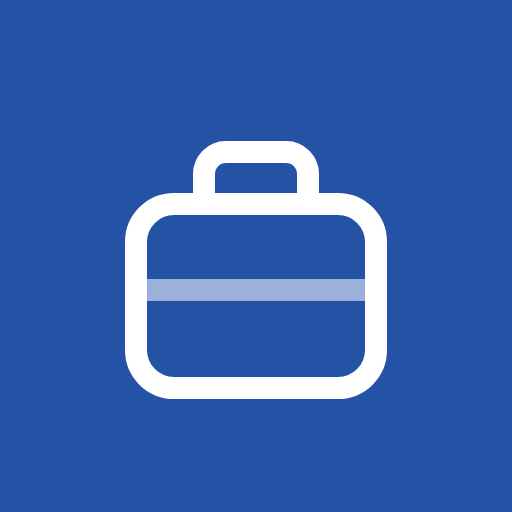
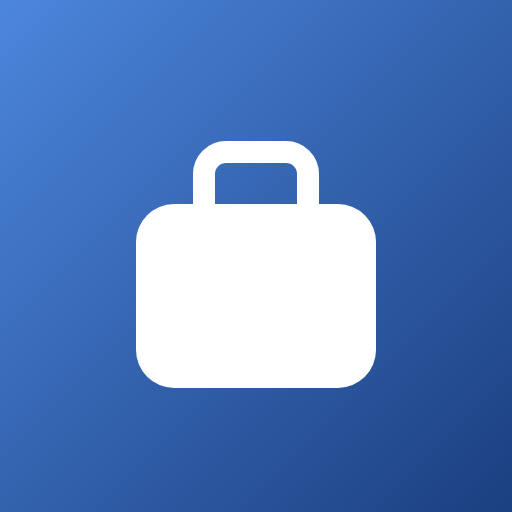
Ícone opção I sem traço; Despesas vira Financeiro
Claude-Session: https://claude.ai/code/session_01NX5S71Kf4iqq7ibVQkZmZT

diff --git a/index.html b/index.html
@@ -9,9 +9,9 @@
 <meta name="mobile-web-app-capable" content="yes">
 <meta name="apple-mobile-web-app-status-bar-style" content="default">
 <meta name="apple-mobile-web-app-title" content="Viagens a Dois">
-<link rel="apple-touch-icon" href="icon-180.png?v=6">
-<link rel="icon" type="image/png" href="icon-192.png?v=6">
-<link rel="manifest" href="manifest.webmanifest?v=6">
+<link rel="apple-touch-icon" href="icon-180.png?v=7">
+<link rel="icon" type="image/png" href="icon-192.png?v=7">
+<link rel="manifest" href="manifest.webmanifest?v=7">
 <link rel="preconnect" href="https://fonts.googleapis.com">
 <link rel="stylesheet" href="https://fonts.googleapis.com/css2?family=Manrope:wght@400;500;600;700;800&display=swap">
 <style>
@@ -533,7 +533,7 @@ function tabbar(on){
   if (!dentro) return `<nav class="tabbar" style="grid-template-columns:repeat(2,minmax(0,1fr))" aria-label="Navegação">${t('#/', 'viagens', 'mala', 'Viagens')}${nos()}</nav>`;
   return `<nav class="tabbar" aria-label="Navegação">
     ${t('#/v/'+a, 'inicio', 'casa', 'Início')}
-    ${t('#/v/'+a+'/gastos', 'gastos', 'moeda', 'Despesas')}
+    ${t('#/v/'+a+'/gastos', 'gastos', 'moeda', 'Financeiro')}
     ${t('#/v/'+a+'/lugares', 'roteiro', 'rota', 'Roteiro')}
     ${t('#/v/'+a+'/reservas', 'reservas', 'voo', 'Reservas')}
     ${t('#/', 'viagens', 'mala', 'Viagens', 'so-desk')}${nos('so-desk')}
@@ -670,14 +670,14 @@ function telaViagem(id, aba){
   const linhaI = (href, ic, t, s) => `<a class="ra" href="${href}"><span class="ra-i">${icr(ic,20,1.3)}</span><span class="ra-t"><b>${t}</b><span>${s}</span></span>${sv(IC.seta,16,1.5)}</a>`;
   const inicio = `<div class="lstA">
     ${linhaI('#/novo/'+id, 'plus', 'Registrar despesa', 'Anotar uma compra')}
-    ${linhaI('#/v/'+id+'/gastos', 'moeda', 'Despesas', r.gs.length ? brl(r.total) + ' até agora' : 'Nada registrado ainda')}
+    ${linhaI('#/v/'+id+'/gastos', 'moeda', 'Financeiro', r.gs.length ? brl(r.total) + ' até agora' : 'Nada registrado ainda')}
     ${linhaI('#/v/'+id+'/lugares', 'rota', 'Roteiro', nD ? `${nL} ${nL === 1 ? 'local' : 'locais'} · ${nD} ${nD === 1 ? 'dia' : 'dias'}` : 'Dias e lugares')}
     ${linhaI('#/v/'+id+'/reservas', 'voo', 'Reservas', nR ? `${nR} ${nR === 1 ? 'passagem' : 'passagens'}` : 'Passagens')}
     ${linhaI('#/v/'+id+'/hospedagens', 'bed', 'Hospedagens', nH ? `${nH} ${nH === 1 ? 'hospedagem' : 'hospedagens'}` : 'Hotel, Airbnb e outros')}</div>`;
   const cab = (t, s, extra) => `<nav class="nav"><a href="#/v/${id}">${sv(IC.voltar,22,2.2)} ${esc(v.nome)}</a><a href="#/limite/${id}">Editar</a></nav><h1 class="t">${t}</h1><div class="sub">${s}</div>${extra || ''}`;
   const segRot = `<div class="seg" style="grid-template-columns:1fr 1fr;margin-bottom:6px" role="group"><button data-aba="lugares" aria-pressed="${aba === 'lugares'}">Lugares</button><button data-aba="dias" aria-pressed="${aba === 'dias'}">Dias</button></div>`;
   let tela;
-  if (aba === 'gastos') tela = cab('Despesas', 'Quanto já gastaram e como dividir.') + corpoGastos;
+  if (aba === 'gastos') tela = cab('Financeiro', 'Quanto já gastaram e como dividir.') + corpoGastos;
   else if (aba === 'lugares') tela = cab('Roteiro', 'Onde vamos ficar e o que queremos conhecer.', segRot) + corpoRoteiro(v, 'dados');
   else if (aba === 'dias') tela = cab('Roteiro', 'O que vamos fazer em cada dia da viagem.', segRot) + corpoRoteiro(v, 'dias');
   else if (aba === 'reservas') tela = cab('Reservas', 'Passagens da viagem.') + corpoReservas(v);
@@ -1466,7 +1466,7 @@ function telaHosp(id){
   document.getElementById('bt-ed').onclick = () => editarHosp(it.viagem_id, it);
 }
 function abasViagem(id, aba){
-  const t = [['gastos','Despesas'],['roteiro','Roteiro'],['lugares','Lugares'],['reservas','Reservas']];
+  const t = [['gastos','Financeiro'],['roteiro','Roteiro'],['lugares','Lugares'],['reservas','Reservas']];
   return `<div class="seg" style="grid-template-columns:repeat(4,minmax(0,1fr))" role="group" aria-label="Seções da viagem">${t.map(([k,l]) => `<button data-aba="${k}" aria-pressed="${aba === k}">${l}</button>`).join('')}</div>`;
 }
 
@@ -1494,7 +1494,7 @@ function render(){
 function emFormulario(){ return /^#\/(novo|gasto\/|nova-viagem|limite)/.test(location.hash) || document.querySelector('.veil') || (document.activeElement && /INPUT|SELECT|TEXTAREA/.test(document.activeElement.tagName)); }
 
 /* ---------- atualização automática ---------- */
-const VERSAO = '2026-10-27-38';
+const VERSAO = '2026-10-27-39';
 async function checarVersao(){
   try {
     const r = await fetch('version.json?t=' + Date.now(), { cache: 'no-store' });
